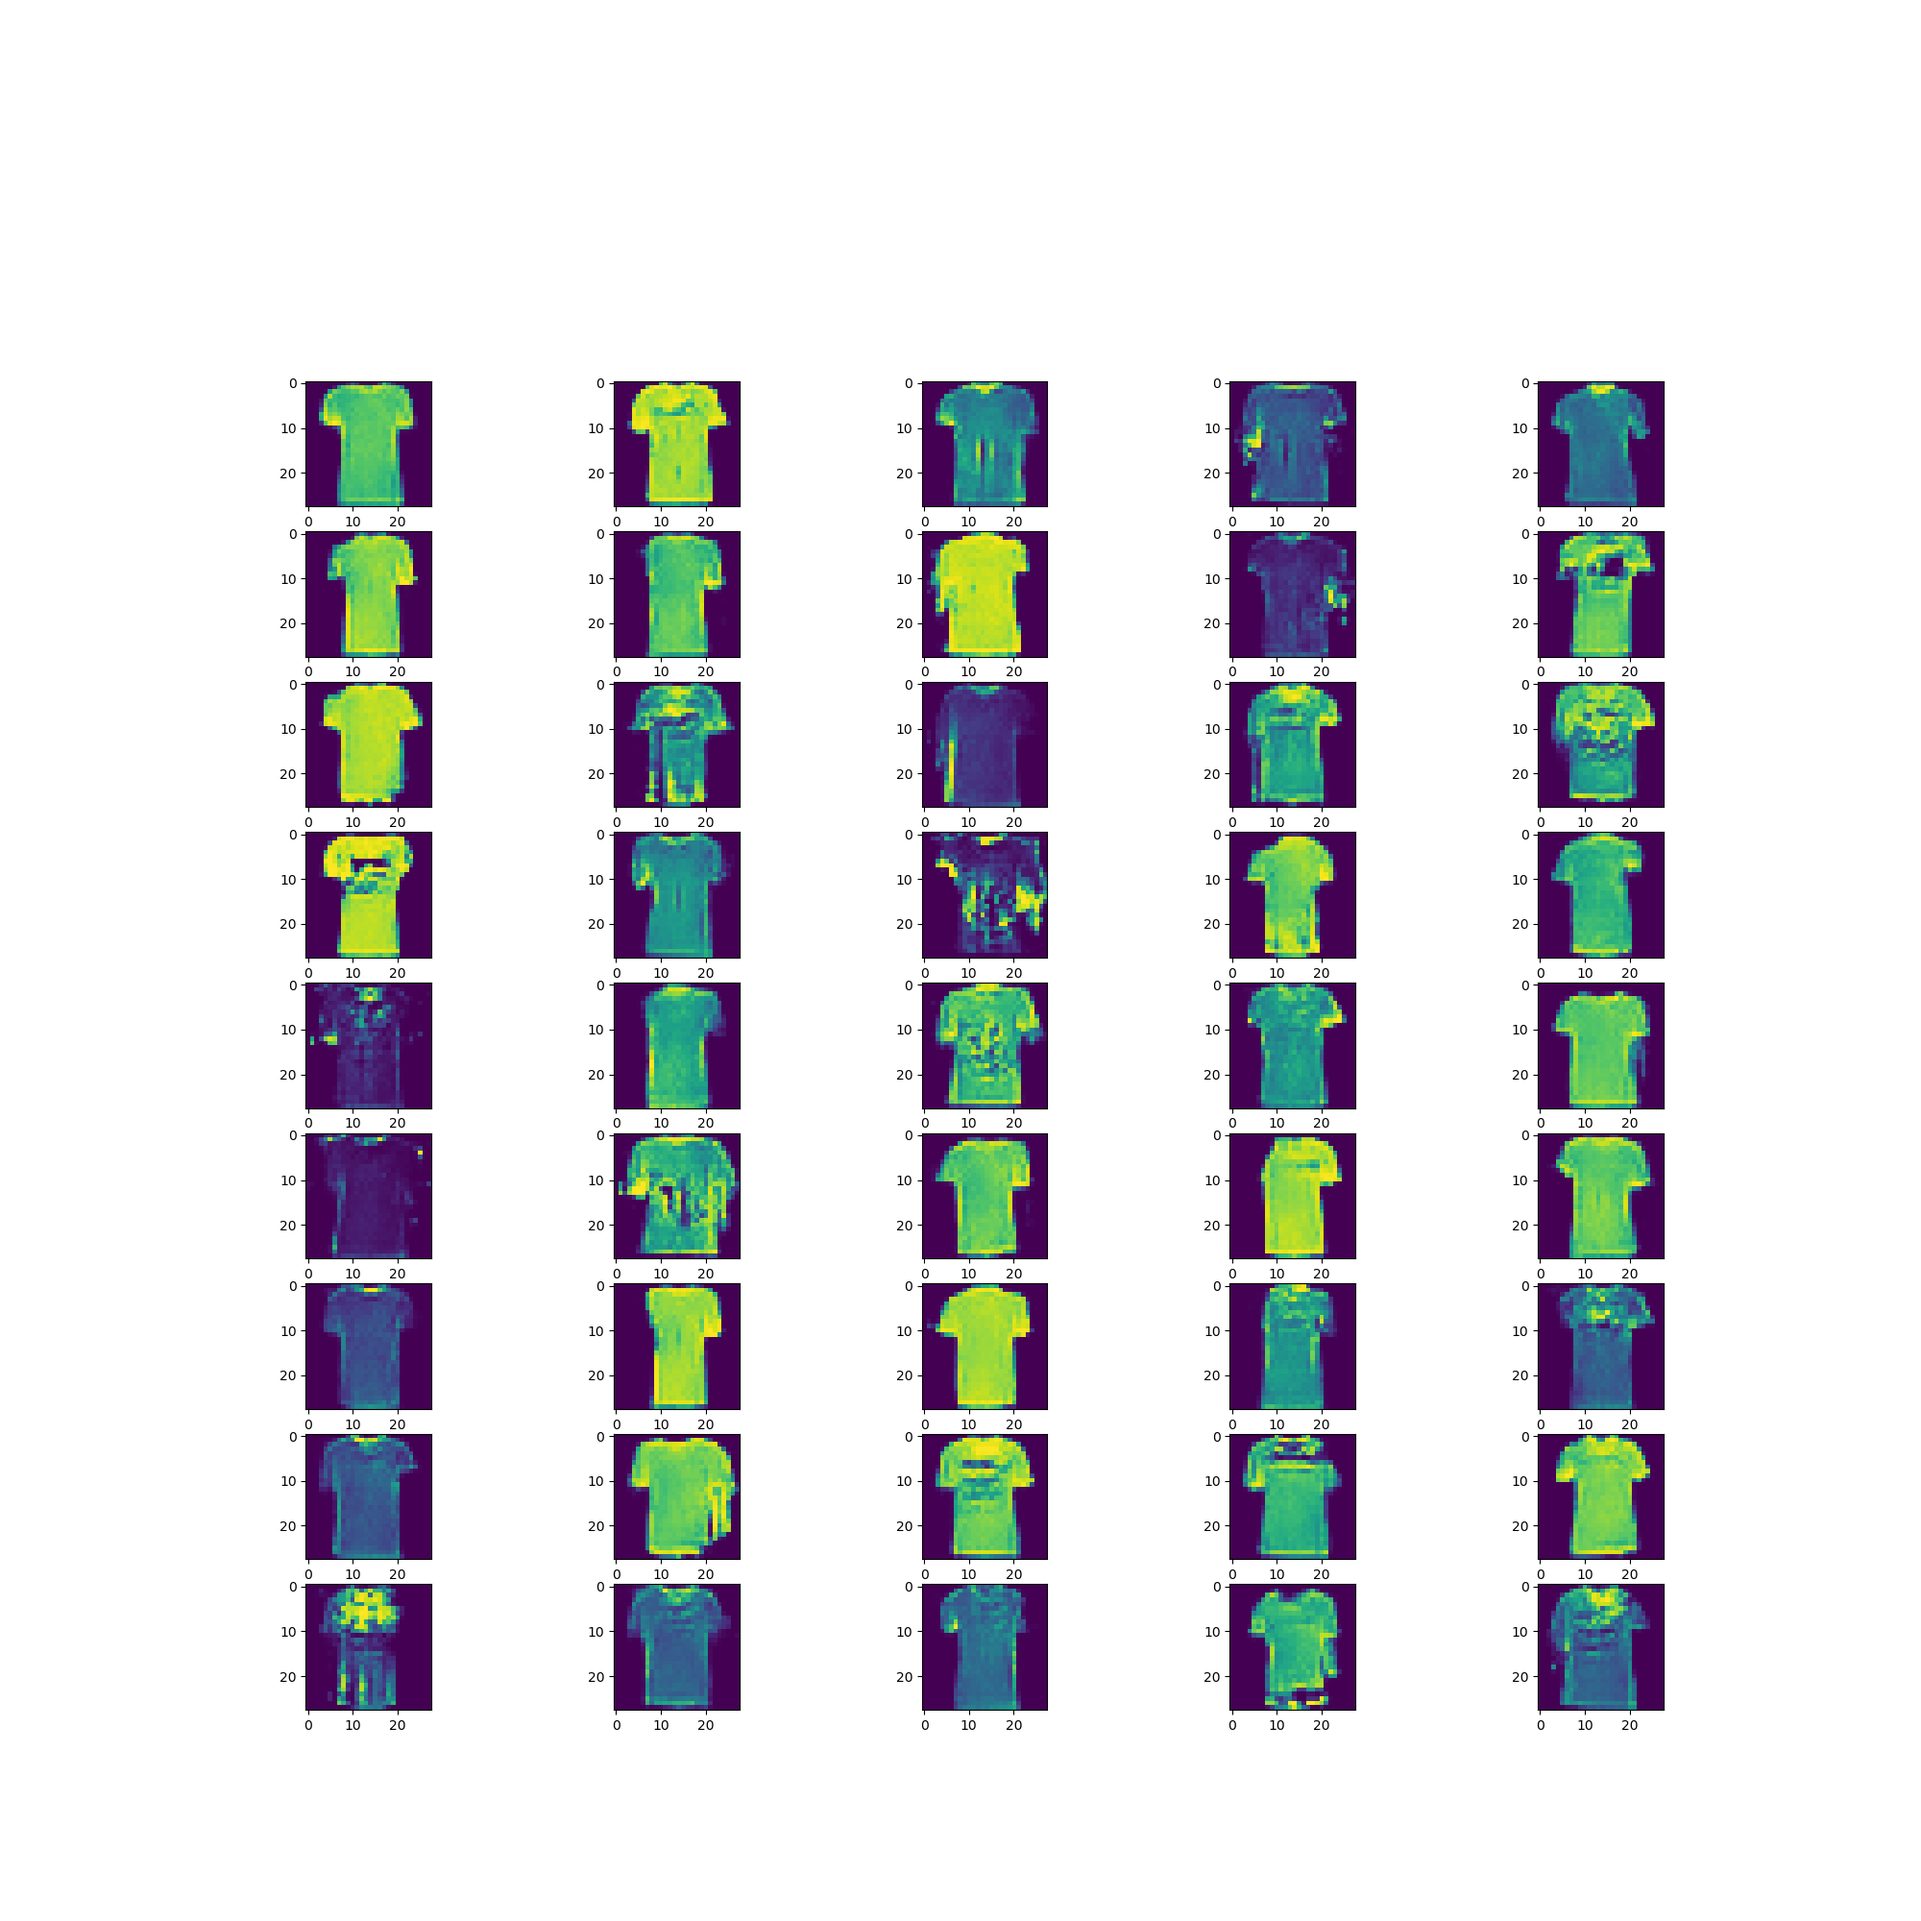
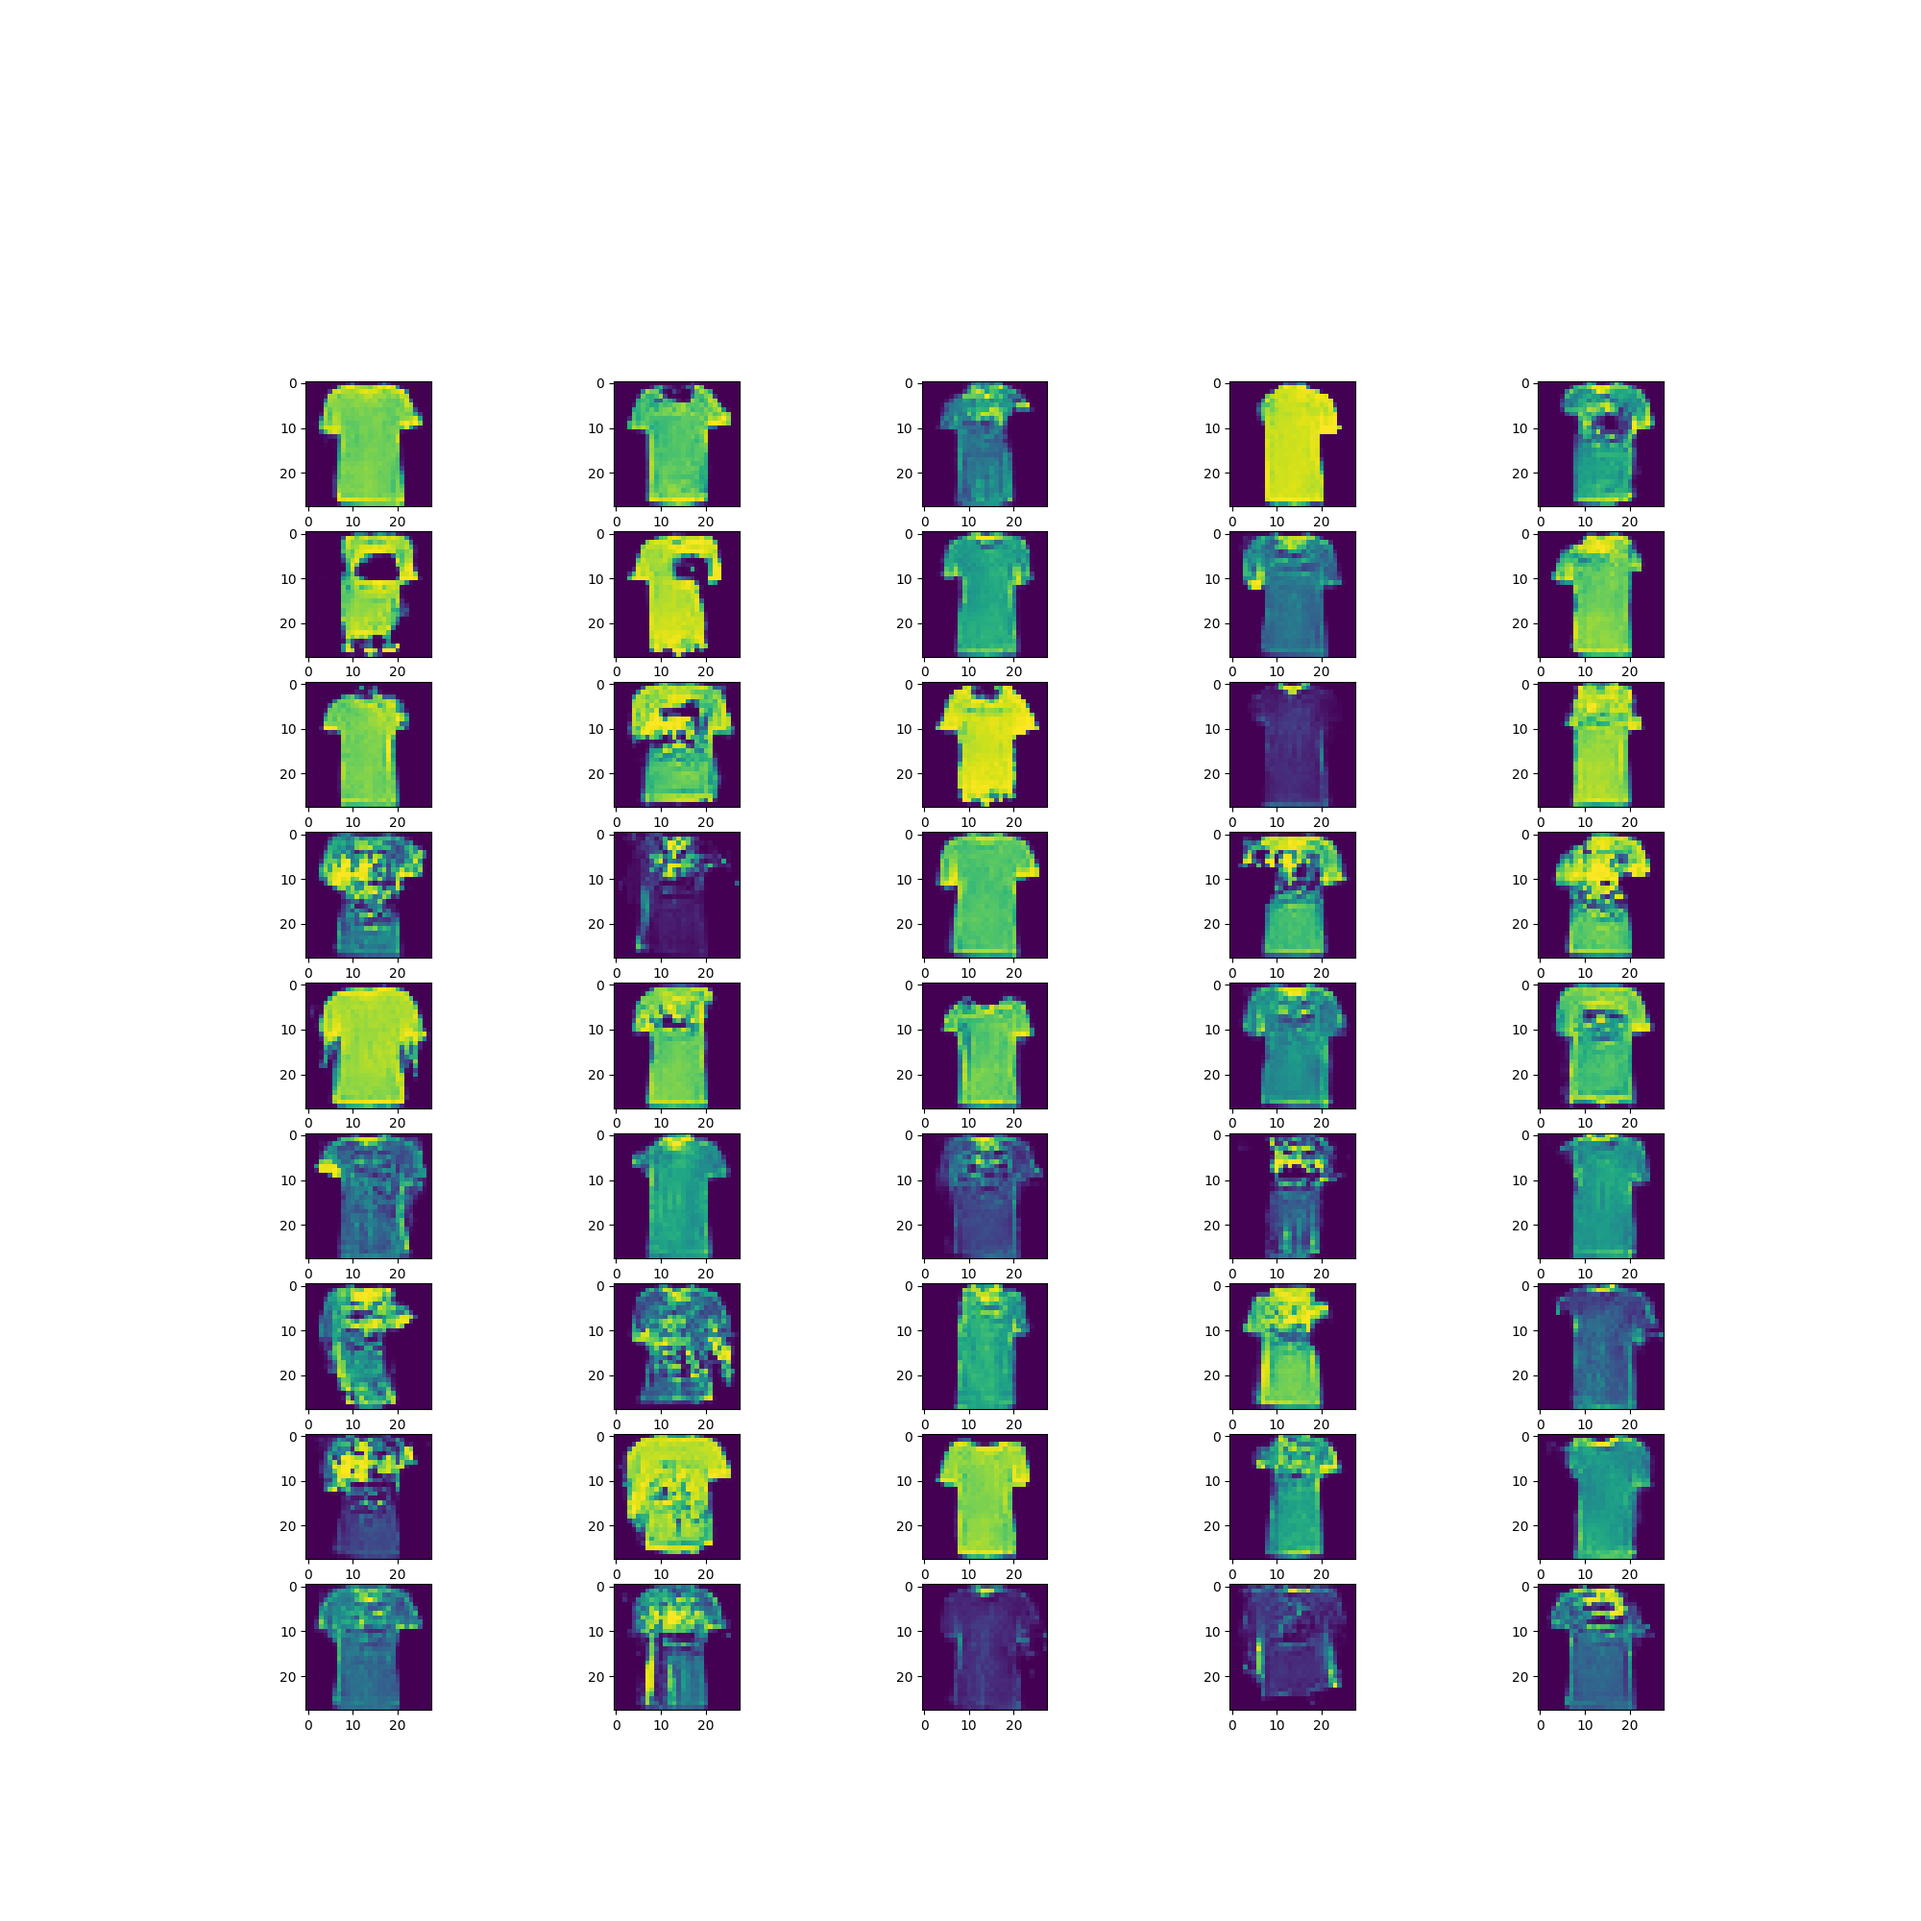
ADD : Form.py

diff --git a/static/fmnist.css b/static/fmnist.css
@@ -1,0 +1,200 @@
+body {
+    font-family: 'Poppins', sans-serif !important;
+    letter-spacing: 0px;
+    color: #677294;
+    padding: 0px;
+    overflow-x: hidden;
+    z-index: 0;
+  }
+  a{
+      text-decoration: none;
+  }
+.background{
+    background-image: url("https://images.unsplash.com/photo-1512436991641-6745cdb1723f?ixlib=rb-1.2.1&ixid=eyJhcHBfaWQiOjEyMDd9&w=1000&q=80");
+    background-repeat: no-repeat;
+    background-size: cover;
+    padding: 50px 0;
+}
+.container{
+    max-width: 1100px;
+    margin: 40px auto;
+    background-color: rgba(255,255,255,0.75);
+    border-radius: 30px;
+    display: flex;
+    flex-direction: row;
+    padding: 20px;
+}
+.inner-container{
+    max-width: 400px;
+    margin: 42px 50px;
+    display: flex;
+    flex-direction: column;
+    justify-content: center;
+    align-items: flex-start;
+    padding: 25px;
+}
+.heading{
+    font-size: 48px;
+    font-weight: bold;
+    text-align: center;
+    color: black;
+    margin-bottom: 20px;
+}
+.name{
+    font-size: 40px;
+    font-weight: bold;
+    text-align: left;
+    color: black;
+}
+.category{
+    font-size : 28px;
+    font-weight: 400;
+    text-align: left;
+    color: black;
+}
+.description{
+    color: rgba(0,0,0,0.8);
+    text-align : left;
+    padding: 10px 0;
+}
+.button{
+    padding: 7px 29px;
+    border-radius: 5px;
+    border: 1px solid #6c5cff;
+    outline: none;
+    background-color: inherit;
+    color:  #6c5cff;
+    margin: auto;    
+    margin-top: 10px;
+}
+.button:hover{
+    border: none;
+    border-radius: 5px;
+    color: white;
+    background-color:  #6c5cff
+}
+.background1{
+    background-color: #f9f9fc;
+    padding: 60px 0;
+}
+#tab-container{
+    max-width: 1100px;
+    margin: auto;
+}
+.tab-heading{
+    font-weight: 600;
+    margin-bottom: 20px;
+    line-height: 30px;
+    color: black;
+}
+.tabview{
+    padding: 0px 40px 0px 40px;
+    display: inline-block;
+    border: none;
+    margin-bottom: 30px;
+}
+.nav .nav-item:first-child{
+    margin-left: 0px;
+}
+.nav .nav-item .nav-link{
+    color: rgba(0,0,0,0.8);
+    border: none;
+    padding: 10px 50px
+}
+.nav .nav-item .nav-link:hover{
+    color: #6c5cff !important;
+}
+.nav .nav-item .nav-link:first-child{
+    padding-left: 15px;
+}
+.nav-item .nav-link.active {
+    color: #6c5cff !important;
+    background-color: inherit !important;
+}
+.tab-content{
+    margin: 20px 0;
+}
+
+
+
+
+
+
+
+
+
+
+
+
+
+
+
+/* 
+#tabscontainer {
+    max-width: 1100px;
+    margin: 40px auto;
+    display: flex;
+    flex-direction: row;
+    flex-wrap: wrap;
+    position: relative;
+    padding: 0;
+    max-width: 655px;
+  }
+  #tabscontainer > [name="radiogroupfortabs"] {
+    position: absolute; 
+    visibility: hidden; 
+  }
+  #tabscontainer > #radiofortab1{-webkit-box-ordinal-group:2;-webkit-order:1;-ms-flex-order:1;order:1;}
+  #tabscontainer > #radiofortab2{-webkit-box-ordinal-group:3;-webkit-order:2;-ms-flex-order:2;order:2;}
+  #tabscontainer > #radiofortab3{-webkit-box-ordinal-group:4;-webkit-order:3;-ms-flex-order:3;order:3;}
+  #tabscontainer > [id^="tab-label"] {
+    position: relative;
+    top: 0px;
+    max-height: 18px;  
+    margin: 4px 2px 0 0;
+    display: inline-block;  
+    padding: 12px 21px;
+    border-radius: 5px 5px 0 0;
+    border-width: 1px 1px 1px 1px;
+    border-style: solid;
+    border-color: #000000;
+    font-size: 12px;
+    font-weight: bold;
+    text-transform: uppercase;
+    background: #B0B0B0;
+    cursor: pointer;
+    -webkit-transition: all 0.2s ease-in-out;
+    transition: all 0.2s ease-in-out;
+  }
+  #tabscontainer > [id^="tab-label"]:hover {
+    background: #969696;  
+  }
+  #tabscontainer > [id^="tab-content"] {
+      -webkit-box-ordinal-group: 999;
+      -webkit-order: 999;
+      -ms-flex-order: 999;
+      order: 999;
+      display: none;    
+      z-index: 2;
+      top: 48px;
+      width: 100%;
+      min-height: 5em;
+      overflow: hidden;    
+      font-size: 14px;
+      border-width: 1px;
+      border-style: solid;
+      padding: 10px 25px 25px 25px;
+      background: #c9c9c9;
+      margin-top: -1px;
+      border-radius: 0 5px 5px 5px;
+  }
+  #tabscontainer > [name="radiogroupfortabs"]:checked + [id^="tab-label"] {
+    z-index: 4;
+    margin-top: 0px;
+    padding-top: 16px;
+    background: #c9c9c9;
+    border-color: #000 #000 #c9c9c9 #000;
+  }
+  #tabscontainer > #radiofortab1:checked ~ #tab-content1{display: block;}
+  #tabscontainer > #radiofortab2:checked ~ #tab-content2{display: block;}
+  #tabscontainer > #radiofortab3:checked ~ #tab-content3{display: block;} */

diff --git a/templates/fmnist.html b/templates/fmnist.html
@@ -1,0 +1,35 @@
+<!DOCTYPE html>
+<html>
+    <head>
+        <title>MNIST DataSet!</title>
+        <link rel="stylesheet"  type="text/css" href="{{ url_for('static', filename='fmnist.css') }}" />
+        <link href="https://fonts.googleapis.com/css2?family=Poppins:ital,wght@0,400;0,500;0,600;0,700;0,800;0,900;1,300&display=swap" rel="stylesheet" />
+        <link rel="stylesheet" href="https://cdn.jsdelivr.net/npm/bootstrap@4.5.3/dist/css/bootstrap.min.css" integrity="sha384-TX8t27EcRE3e/ihU7zmQxVncDAy5uIKz4rEkgIXeMed4M0jlfIDPvg6uqKI2xXr2" crossorigin="anonymous" />
+    </head>
+    <body>
+        <div class="background">
+            <header>
+                <h1 class="h1 heading">Clothing Generation through MNIST DataSet</h1>
+            </header>
+            <div class="container">
+                <div class="inner-container">
+                    <h1 class="h1 name">Team VVS</h1>
+                    <h3 class="h3 category">Trendiness Category</h3>
+                    <h6 class="h6 description">We are having 3 functionalities to provide:<br>
+                        1. Generating premium clothing from a bunch of input regarding the design.<br>
+                        2. Selecting trendy clothing from a specific type of clothing. <br>
+                        3. Generating a trendy score for any image of clothing you provide.
+                    </h6>
+                    <a href="#tab-container" class="button">Lets Go!</a>
+                </div>
+                <img src='' alt="illustration" height="400" width="600" style="margin-top: 30px"/>
+            </div>
+        </div> 
+        <div class="background1">  
+
+        </div>
+
+        <script src="https://code.jquery.com/jquery-3.5.1.slim.min.js" integrity="sha384-DfXdz2htPH0lsSSs5nCTpuj/zy4C+OGpamoFVy38MVBnE+IbbVYUew+OrCXaRkfj" crossorigin="anonymous"></script>
+        <script src="https://cdn.jsdelivr.net/npm/bootstrap@4.5.3/dist/js/bootstrap.bundle.min.js" integrity="sha384-ho+j7jyWK8fNQe+A12Hb8AhRq26LrZ/JpcUGGOn+Y7RsweNrtN/tE3MoK7ZeZDyx" crossorigin="anonymous"></script>
+    </body>
+</html>

diff --git a/forms.py b/forms.py
@@ -1,0 +1,66 @@
+from flask_wtf import FlaskForm
+from wtforms import SelectField, SubmitField, validators
+from wtforms.validators import DataRequired
+
+
+class MNISTForm(FlaskForm):
+    temp = SelectField(
+        'Attribute',
+        choices=[('0', '0'), ('1', '1'), ('2', '2'), ('3', '3'), ('4', '4'), ('5', '5'), ('6', '6'), ('7', '7'), ('8', '8'), ('9', '9')],
+        [validators.DataRequired()]
+    )
+    submit = SubmitField('Submit')
+
+
+class AttributeForm(FlaskForm):
+    collar = SelectField(
+        'Collar',
+        choices=[('0', 'No'), ('1', 'Yes')],
+        [validators.DataRequired()]
+    )
+    gender = SelectField(
+        'Gender',
+        choices=[('Male', 'Male'), ('Female', 'Female')],
+        [validators.DataRequired()]
+    )
+    necktie = SelectField(
+        'NeckTie',
+        choices=[('0', 'No'), ('1', 'Yes')],
+        [validators.DataRequired()]
+    )
+    pattern = SelectField(
+        'Pattern',
+        choices=[('Floral', 'Floral'), ('Graphic', 'Graphic'), ('Plaid', 'Plaid'), ('Solid', 'Solid'), ('Spot', 'Spot'), ('Stripe', 'Stripe')],
+        [validators.DataRequired()]
+    )
+    placket = SelectField(
+        'Placket',
+        choices=[('0', 'No'), ('1', 'Yes')],
+        [validators.DataRequired()]
+    )
+    scarf = SelectField(
+        'Scarf',
+        choices=[('0', 'No'), ('1', 'Yes')],
+        [validators.DataRequired()]
+    )
+    skinexposure = SelectField(
+        'Skin Exposure',
+        choices=[('0', 'No'), ('1', 'Yes')],
+        [validators.DataRequired()]
+    )
+    category = SelectField(
+        'Category',
+        choices=[('0', '1'), ('1', '2'), ('2', '3'), ('3', '4'), ('4', '5'), ('5', '6'), ('6', '7'), ('7', '8')],
+        [validators.DataRequired()]
+    )
+    neckline = SelectField(
+        'Neckline',
+        choices=[('0', '1'), ('1', '2'), ('2', '3'), ('3', '4')],
+        [validators.DataRequired()]
+    )
+    sleevelength = SelectField(
+        'Sleeve Length',
+        choices=[('0', '1'), ('1', '2'), ('2', '3')],
+        [validators.DataRequired()]
+    )
+    submit = SubmitField('Submit')

diff --git a/generate_images.py b/generate_images.py
@@ -25,12 +25,11 @@ def generate_fake_samples(generator, latent_dim, n_class ,p,n_samples=50):
     images = generator.predict([z_input, labels_input])
     images=images.reshape((50,p,p))
     plt.figure(figsize=(20,20))
-    path = "static/images"
     for i in range(1,10):
         for j in range(1,6):
             plt.subplot(10,5,i*5+j)
             plt.imshow(images[i*5+j-1])
-    plt.savefig(path, 'plot.png')
+    plt.savefig('static/images/plot.png')
     
     ###########return things to be changed#############
     return "images"

diff --git a/myntra.py b/myntra.py
@@ -65,8 +65,9 @@ def home():
 @app.route("/fmnist")
 def fmnist():
     ##### list of 0 to 9 #################
+    image_file4 = url_for('static', filename="images/plot.png")
     temp=0
-    return generate_images.generate_fake_samples(mgen,100,temp,28)
+    return generate_images.generate_fake_samples(mgen,100,temp,28), render_template('fmnist.html', image_file4=image_file4)
 
 
 @app.route("/attribute_dataset")
